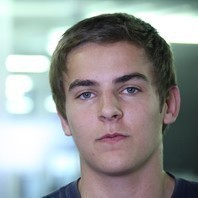
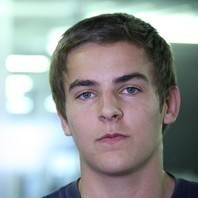
fix opengraph

diff --git a/App/views/head.html b/App/views/head.html
@@ -21,8 +21,8 @@
 <meta property="og:description" content="Développeur Web freelance sur Montpellier, spécialisé dans le développement de sites vitrine.">
 <meta property="og:url" content="https://maxime-morlet.fr"/>
 <meta property="og:image" content="https://maxime-morlet.fr/resources/images/others/profile.jpg"/>
-<meta property="og:image:width" content="198"/>
-<meta property="og:image:height" content="198"/>
+<meta property="og:image:width" content="200"/>
+<meta property="og:image:height" content="200"/>
 <meta property="og:locale" content="fr_FR"/>
 
 <!-- FONT AND LIBS -->
